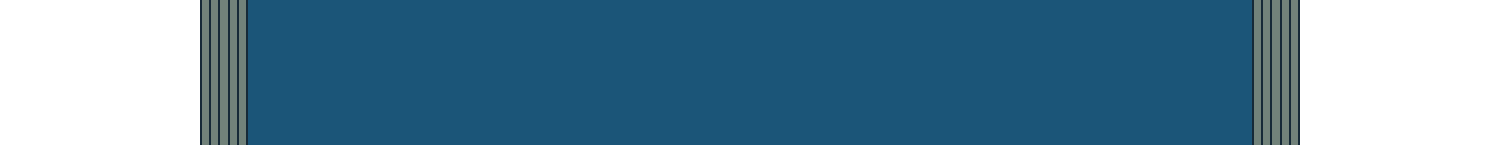
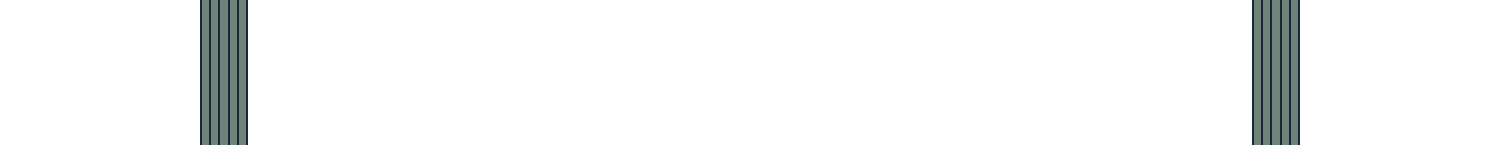
continued working on the layout. and added better color formatting for donatebar

diff --git a/static/vauhtijuoksu2024/css/style.scss b/static/vauhtijuoksu2024/css/style.scss
@@ -29,7 +29,8 @@ $red: #c2473b;
 $font-family-sans-serif: 'solway';
 $body-bg-image: url("../img/bg.png");
 
-$content-bg: tranparent;
+$container-bg: $blue;
+$content-bg: transparent;
 $content-filter: none;
 
 $link-color: $orange;
@@ -54,21 +55,21 @@ $twitch-icon-sm-width: 15px;
 $twitch-link-color: $link-color;
 $twitch-link-hover-color: $link-hover-color;
 
-$donate-bar-color: $lightgreen;
-$donate-bar-text-color: $primary;
-$donate-bar-bg-color: $darkgreen;
+$donate-bar-color: $yellow;
+$donate-bar-text-color: $blueishgrey;
+$donate-bar-bg-color: $blue;
 $donate-bar-border-radius: 20px;
-$donate-bar-text-color-full: $primary;
+$donate-bar-text-color-full: $lightgreen;
 $donate-bar-color-full: $green;
 $donate-bar-border: solid 4px $orange;
 $donate-bar-fill-border: $donate-bar-border;
 $donate-bar-padding: 0px;
-$donate-bar-text-outline: $darkgreen;
+$donate-bar-text-outline: $darkblue;
 
 $divider-height: 400px;
 $divider-width: 100%;
 
-$incentive-bar-fill-color: $lightgreen;
+$incentive-bar-fill-color: $red;
 $incentive-bar-bg-color: $darkgreen;
 $incentive-dropdown-text-color: $link-color;
 $incentive-dropdown-hover-color: $link-hover-color;
@@ -213,21 +214,29 @@ h1, h2, h3, h4, .playdate, .playgame{
   line-height: 44px;
 }
 
+.full > .bar-text{
+  color: $donate-bar-text-color-full;
+}
+
 .overflower {
   width: 130%;
   margin: 0 -15%;
 }
 .header-logo{
   width: 100%;
+  background-image: url("../img/header_bg.png");
+  background-size: 70% 68%;
+  background-repeat: no-repeat;
+  background-position: bottom center;
 }
 #container{
-  margin-top: 30px
+  margin-top: 30px;
 }
 .content{
-  background-image: url("../img/content_top.png"), url("../img/content_bottom.png"),url("../img/content_loop.png");
-  background-repeat: no-repeat, no-repeat, repeat-y;
-  background-size: 100% auto, 100% auto, 100% auto;
-  background-position: top center, bottom center, top center;
+  background-image: url("../img/content_top.png"), url("../img/content_bottom.png"),url("../img/content_loop.png"), url("../img/content_top_bg.png"), url("../img/loop_bg.png");
+  background-repeat: no-repeat, no-repeat, repeat-y, no-repeat, repeat-y;
+  background-size: 100% auto, 100% auto, 100% auto, 70% auto, 70% auto;
+  background-position: top center, bottom center, top center, top center, top center;
   width: 100%;
   padding: 0 24% 60px 24%;
   margin: 0;

diff --git a/templates/vauhtijuoksu/plugins/donatebar.html b/templates/vauhtijuoksu/plugins/donatebar.html
@@ -1,5 +1,10 @@
 {% load vj_extras %}
-<div class="donate-bar">
+{% if donation_sum >= instance.goal %}
+
+    <div class="donate-bar full">
+{% else %}
+    <div class="donate-bar">
+    {% endif %}
     {% if donation_sum >= instance.goal %}
         <div class="bar full"></div>
     {% else %}
